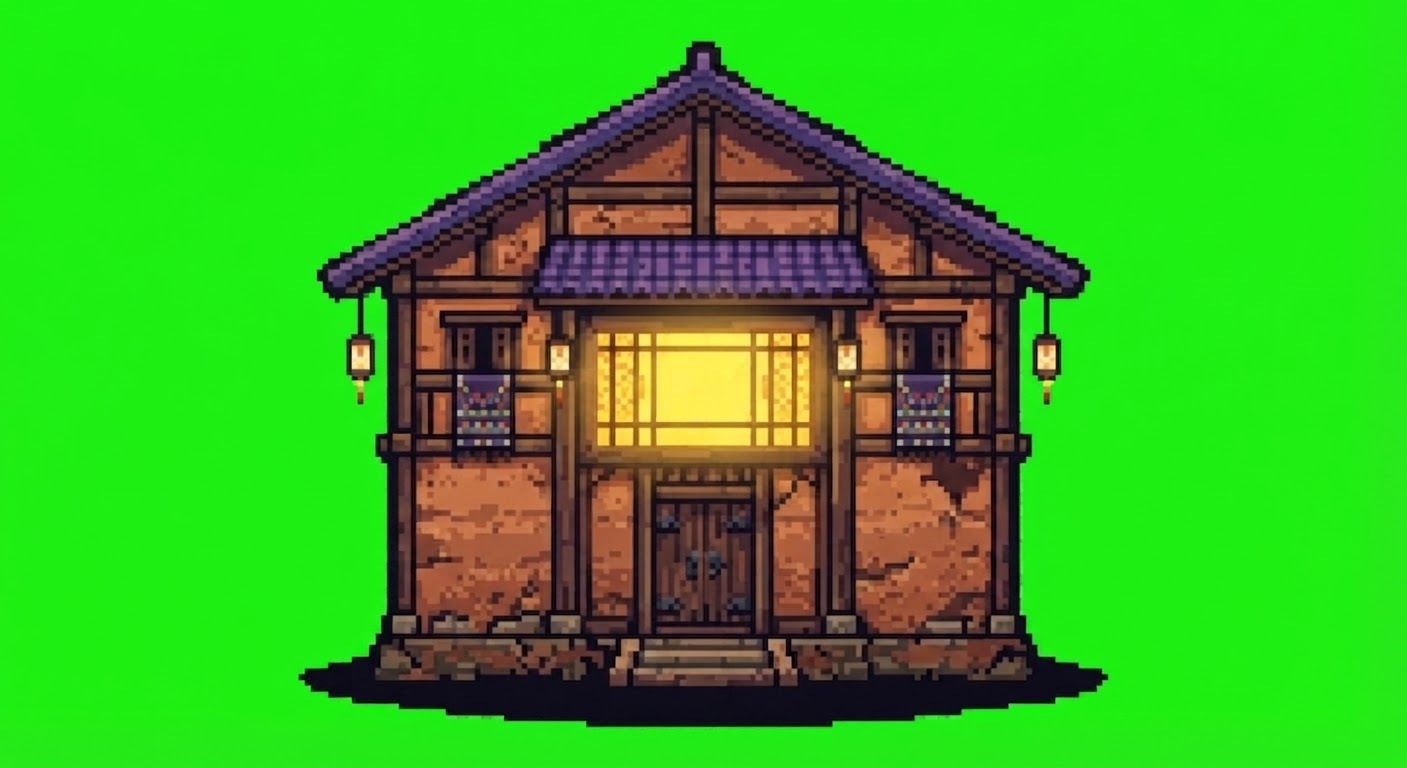
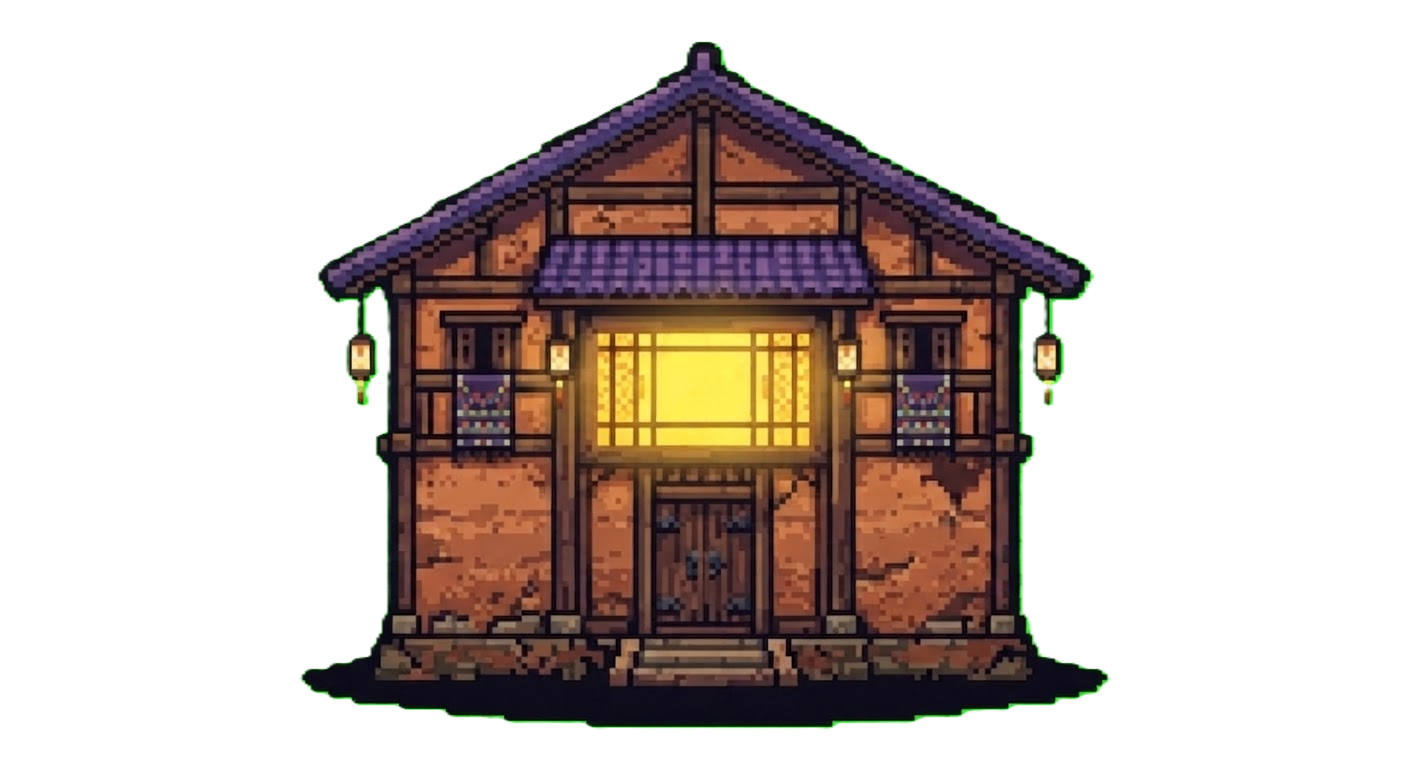
feat: 关卡一场景重构 — 统一背景+地面+建筑+装饰清理
- 三场景统一 bg.png 背景
- 场景一/三 ground1.png，场景二 differentground.png
- 新增房屋 house_01/03、戏台、祠堂 hall.png、古宅 ethnic embroidery house
- 删除冗余装饰层（雾气/山脉/剪影/栅栏/草丛等）
- 主角定位 bottom:14%
- 修复地面条纹渐变覆盖问题

diff --git a/css/level1.css b/css/level1.css
@@ -35,9 +35,7 @@
 /* ========================================================
    场景一：村口 — 三层景深
    ======================================================== */
-#scene-village-gate {
-    background: #e8e0d0 url('../assets/images/scences/level1/gate_bg.png') center bottom / cover;
-}
+#scene-village-gate { background: url('../assets/images/scences/level1/bg.png') center / cover; }
 
 /* ===== 远景层 ===== */
 .gate-sky {
@@ -95,8 +93,7 @@
 /* ===== 近景层 ===== */
 .gate-path {
     position: absolute; bottom: 0; left: 0; right: 0; height: 24%;
-    background: #b8a888;
-    background-image: repeating-linear-gradient(0deg, #a89878 0px, #a89878 4px, #b8a888 4px, #b8a888 8px);
+    background: url('../assets/images/scences/level1/ground1.png') center / cover;
     z-index: 4;
 }
 .gate-grass-l {
@@ -129,13 +126,13 @@
 }
 /* 前景草丛 */
 .gate-bush-l {
-    position: absolute; bottom: 21%; left: 2%; width: 60px; height: 24px;
+    position: absolute; bottom: 14%; left: 2%; width: 60px; height: 24px;
     background: #5a7a2a;
     clip-path: polygon(0% 100%, 10% 50%, 25% 70%, 40% 30%, 55% 60%, 70% 20%, 85% 50%, 100% 40%, 100% 100%);
     z-index: 7;
 }
 .gate-bush-r {
-    position: absolute; bottom: 21%; right: 28%; width: 50px; height: 20px;
+    position: absolute; bottom: 14%; right: 28%; width: 50px; height: 20px;
     background: #5a7a2a;
     clip-path: polygon(0% 100%, 15% 40%, 30% 60%, 50% 20%, 70% 50%, 85% 30%, 100% 50%, 100% 100%);
     z-index: 7;
@@ -166,7 +163,7 @@
 /* ========================================================
    场景二：村内 — 三层景深
    ======================================================== */
-#scene-village-inside { background: #d8d0c0; }
+#scene-village-inside { background: url('../assets/images/scences/level1/bg.png') center / cover; }
 .village-bg {
     position: absolute; inset: 0; background: #d8d0c0;
     background-image: radial-gradient(circle, #c8c0b0 2px, transparent 2px);
@@ -208,9 +205,8 @@
 
 /* 近景地面 */
 .village-ground {
-    position: absolute; bottom: 0; left: 0; right: 0; height: 18%;
-    background: #8a7a5a;
-    background-image: repeating-linear-gradient(0deg, #7a6a4a 0px, #7a6a4a 4px, #8a7a5a 4px, #8a7a5a 8px);
+    position: absolute; bottom: 11%; left: 0; right: 0; height: 18%;
+    background: url('../assets/images/scences/level1/differentground.png') center/100% 100% no-repeat;
     z-index: 4;
 }
 .village-mist { position: absolute; inset: 0; background: rgba(200,210,200,0.04); pointer-events: none; z-index: 5; }
@@ -295,44 +291,27 @@
    场景三：后山枢纽 — 三层景深
    ======================================================== */
 #scene-hub {
-    background: #d0c8b8 url('../assets/images/scences/level1/hub_bg.png') center bottom / cover;
+    background-color: #2d5a1e;
+    background-image: url('../assets/images/scences/level1/bg.png');
+    background-position: center;
+    background-size: cover;
 }
+
+/* ===== 远景层 ===== */
+/* 透明点状纹理叠加（不遮挡背景图） */
 .hub-bg {
-    position: absolute; inset: 0; background: #d0c8b8;
-    background-image: radial-gradient(circle, #c0b8a8 2px, transparent 2px);
-    background-size: 50px 50px;
-}
-/* 远山 */
-.hub-mountains-far {
-    position: absolute; top: 15%; left: -5%; right: -5%; height: 25%;
-    background: #b0a898;
-    clip-path: polygon(0% 50%, 6% 25%, 14% 45%, 22% 15%, 30% 40%, 40% 10%, 50% 35%, 60% 5%, 70% 30%, 78% 15%, 88% 40%, 96% 20%, 100% 35%, 100% 100%, 0% 100%);
-    opacity: 0.5;
-}
-.hub-fog-far {
-    position: absolute; top: 30%; left: 0; right: 0; height: 12%;
-    background: linear-gradient(180deg, transparent, rgba(208,200,184,0.6));
+    position: absolute; inset: 0;
+    background-image: radial-gradient(circle, rgba(160,150,130,0.25) 1px, transparent 1px);
+    background-size: 40px 40px;
     pointer-events: none;
 }
-/* 中景树林 */
-.hub-mid-trees {
-    position: absolute; top: 35%; left: 0; right: 0; height: 15%;
-    background: transparent;
-    background-image: repeating-linear-gradient(90deg, transparent 0px, transparent 40px, #5a6a3a 40px, #5a6a3a 44px, transparent 44px, transparent 80px);
-    opacity: 0.4; z-index: 2;
-}
-.hub-fog-mid {
-    position: absolute; top: 42%; left: 0; right: 0; height: 8%;
-    background: linear-gradient(180deg, rgba(208,200,184,0.3), transparent);
-    pointer-events: none; z-index: 3;
-}
-/* 近景地面 */
+/* ===== 近景层 ===== */
 .hub-ground {
-    position: absolute; bottom: 0; left: 0; right: 0; height: 18%;
-    background: #8a7a5a;
-    background-image: repeating-linear-gradient(0deg, #7a6a4a 0px, #7a6a4a 4px, #8a7a5a 4px, #8a7a5a 8px);
+    position: absolute; bottom: 0; left: 0; right: 0; height: 24%;
+    background: url('../assets/images/scences/level1/ground1.png') center / cover;
     z-index: 4;
 }
+
 /* 晒场/祠堂入口 */
 .hub-yard { position: absolute; bottom: 18%; left: 15%; text-align: center; z-index: 6; }
 .hub-hall { position: absolute; bottom: 18%; right: 15%; text-align: center; z-index: 6; }
@@ -344,12 +323,14 @@
     box-shadow: inset 1px 1px 0 #7a5ba8, 3px 3px 0 #0d0618;
     text-shadow: 2px 2px 0 #0d0618; text-transform: uppercase;
 }
-/* 前景草丛 */
+
+/* 前景灌木 */
 .hub-bush-front {
-    position: absolute; width: 60px; height: 24px; background: #5a7a2a;
+    position: absolute; width: 55px; height: 26px; background: #5a7a2a;
     clip-path: polygon(0% 100%, 10% 50%, 25% 70%, 40% 30%, 55% 60%, 70% 20%, 85% 50%, 100% 40%, 100% 100%);
     z-index: 8;
 }
+
 #hub-left-hint { position: absolute; bottom: 8px; left: 16px; color: #7a5ba8; font-size: 8px; z-index: 9; text-shadow: 2px 2px 0 #d0c8b8; }
 
 /* ========================================================
@@ -469,7 +450,7 @@
 }
 #house-exit-btn:hover { transform: translate(-2px, -2px); box-shadow: inset 2px 2px 0 #9a7bc8, inset -2px -2px 0 #5a3b88, 5px 5px 0 #0d0618; }
 
-#level1-screen #player { bottom: 18%; }
+#level1-screen #player { bottom: 14%; }
 
 /* ========================================================
    真实素材替换层（覆盖几何占位）v2
@@ -480,7 +461,7 @@
 #scene-village-gate .gate-path,
 #scene-village-gate .gate-grass-l,
 #scene-village-gate .gate-grass-r {
-    display: none;
+    display: block;
 }
 
 /* 寨门：缩小到 200x267，调低位置 */
@@ -555,13 +536,15 @@
 
 /* 绣花古宅：缩小到 250x312，调低位置 */
 #scene-village-inside .village-house {
-    width: 250px;
-    height: 312px;
-    background-image: url('../assets/images/scences/level1/house_exterior.png');
+    width: 500px;
+    height: 624px;
+    background-image: url('../assets/images/scences/level1/ethnic embroidery house.png');
     background-size: contain;
     background-repeat: no-repeat;
     background-position: center bottom;
     bottom: 16%;
+    left: 35%;
+    transform: none;
 }
 #scene-village-inside .village-house .house-roof,
 #scene-village-inside .village-house .house-wall {
@@ -593,15 +576,15 @@
 /* ---------- 后山 ---------- */
 /* 实底背景图已包含地面/梯田，隐藏冲突的地面层 */
 #scene-hub .hub-ground {
-    display: none;
+    display: block;
 }
 
 /* 祠堂：缩小到 250x312，调低位置 */
 #scene-hub .hub-hall {
-    width: 250px;
-    height: 312px;
-    background-image: url('../assets/images/scences/level1/hall_exterior.png');
-    background-size: contain;
+    width: 500px;
+    height: 250px;
+    background-image: url('../assets/images/scences/level1/hall.png');
+    background-size: 100% 100%;
     background-repeat: no-repeat;
     background-position: center bottom;
     bottom: 14%;
@@ -615,3 +598,14 @@
     transform: translateX(-50%);
     white-space: nowrap;
 }
+
+#scene-village-gate .gate-house-left { position: absolute; bottom: 14%; left: -3%; width: 300px; height: 225px; background: url('../assets/images/scences/level1/houses/house_01.png') center/contain no-repeat; z-index: 6; }
+#scene-village-gate .gate-house-mid { position: absolute; bottom: 16%; left: 35%; width: 375px; height: 22vh; background: url('../assets/images/scences/level1/houses/house_03.png') center/contain no-repeat; z-index: 6; }
+#scene-village-inside .village-stage-new { position: absolute; bottom: 14%; left: 5%; width: 420px; height: 300px; background: url('../assets/images/scences/level1/traditional Chinese village stage.png') center/contain no-repeat; z-index: 6; }
+#scene-village-inside::after { content: ''; position: absolute; bottom: 0; left: 0; right: 0; height: 11%; background: #1a1a1a; z-index: 3; }
+.gate-sky,.village-mountains-far,.gate-grass-l,.gate-grass-r,.gate-mountains-far,.gate-mountains,.gate-mountains-mid{display:none !important}
+.gate-fog-far,.gate-fog-mid,.gate-village-silhouette,.village-fog-far,.village-silhouette,.village-mid-buildings,.village-fog-mid,.village-mist,.village-lantern,.gate-mountains-mid{display:none !important}
+.village-bg{display:none !important}
+#village-gate-structure{display:none !important}
+#scene-village-inside .village-stage{display:none !important}
+#scene-village-inside .village-house { bottom: 13%; }

diff --git a/index.html b/index.html
@@ -191,6 +191,8 @@
         <div class="gate-trees"></div>
         <div class="gate-bush-l"></div>
         <div class="gate-bush-r"></div>
+        <div class="gate-house-left"></div>
+        <div class="gate-house-mid"></div>
         <!-- 交互物 -->
         <div id="village-gate-structure">
             <div class="gate-wall"></div>
@@ -229,13 +231,7 @@
         <div class="village-mist"></div>
 
         <!-- 大戏台（左侧） -->
-        <div class="village-stage">
-            <div class="stage-roof"></div>
-            <div class="stage-body">大戏台</div>
-            <div class="stage-pillars">
-                <div class="pillar"></div>
-                <div class="pillar"></div>
-            </div>
+        <div class="village-stage-new">
         </div>
 
         <!-- 绣花古宅（中间） -->
@@ -256,8 +252,6 @@
         </div>
 
         <!-- 前景装饰 -->
-        <div class="village-bush-front" style="left:3%;bottom:14%;"></div>
-        <div class="village-bush-front" style="right:5%;bottom:13%;width:70px;height:30px;"></div>
         <div class="village-lantern" style="left:40%;bottom:50%;"></div>
         <div class="village-lantern" style="right:35%;bottom:48%;"></div>
 
@@ -268,11 +262,6 @@
     <div id="scene-hub" class="level1-scene" style="display:none;">
         <!-- ===== 远景层 ===== -->
         <div class="hub-bg"></div>
-        <div class="hub-mountains-far"></div>
-        <div class="hub-fog-far"></div>
-        <!-- ===== 中景层 ===== -->
-        <div class="hub-mid-trees"></div>
-        <div class="hub-fog-mid"></div>
         <!-- ===== 近景层 ===== -->
         <div class="hub-ground"></div>
         <!-- 后山染布晒场 -->